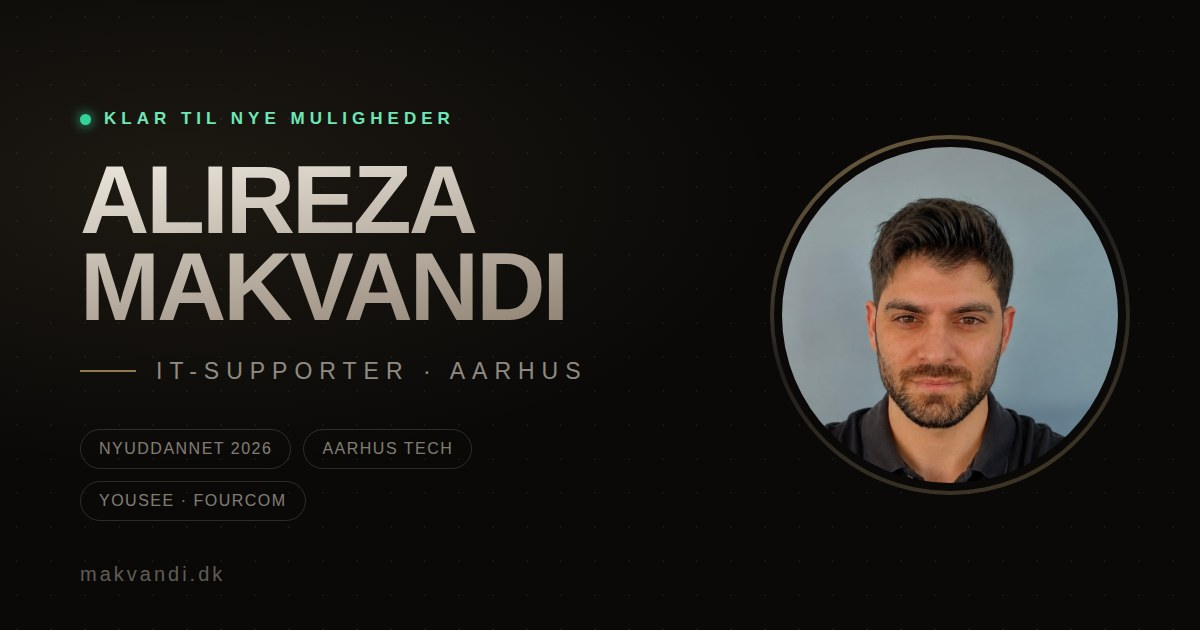
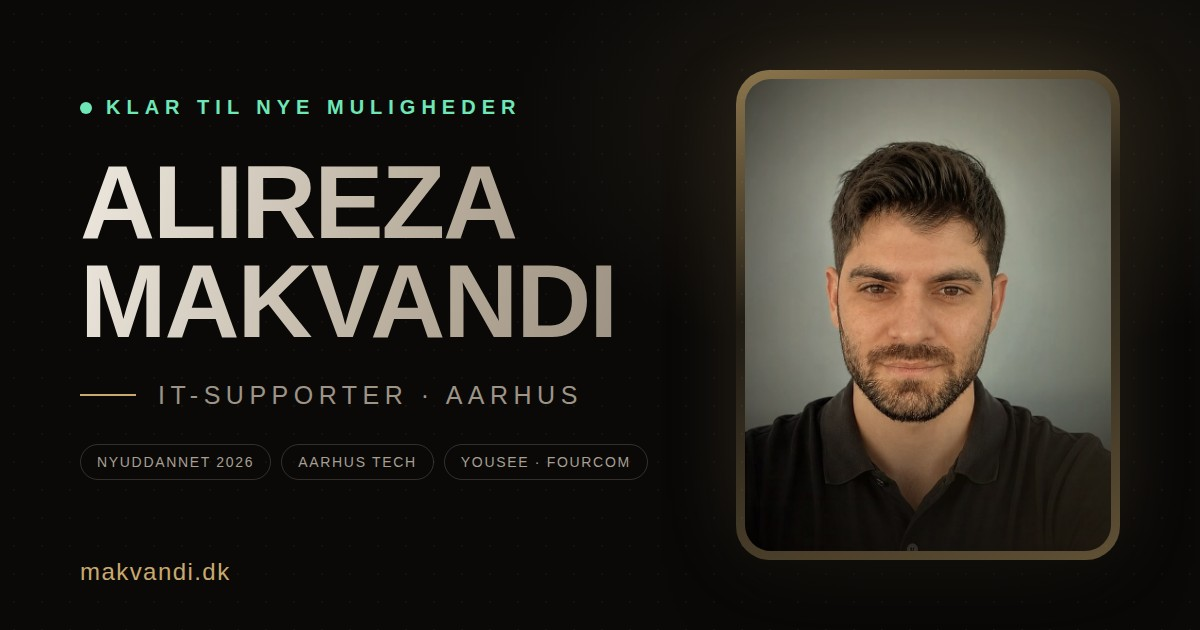
Contact: CV download button; refresh Open Graph image with new portrait (cache-busted) (#7)
Claude-Session: https://claude.ai/code/session_01KyWMWxnLS7jSepiuCit9Pn

diff --git a/src/components/FooterSection.tsx b/src/components/FooterSection.tsx
@@ -1,7 +1,7 @@
 import { Link } from 'react-router-dom'
 import { useState, useRef, useEffect } from 'react'
 import { motion } from 'framer-motion'
-import { Mail, Linkedin, Instagram, Phone } from 'lucide-react'
+import { Mail, Linkedin, Instagram, Phone, Download } from 'lucide-react'
 import { useLang } from '../contexts/LanguageContext'
 import { t } from '../translations'
 
@@ -259,6 +259,29 @@ export default function FooterSection() {
             )
           ))}
         </motion.h2>
+
+        {/* CV: the one thing a recruiter wants */}
+        <motion.div
+          initial={{ opacity: 0, y: 16 }}
+          whileInView={{ opacity: 1, y: 0 }}
+          viewport={{ once: true }}
+          transition={{ duration: 0.5 }}
+          className="-mt-6 sm:-mt-8 mb-10 sm:mb-12 flex flex-wrap items-center gap-4"
+        >
+          <a
+            href="/cv-alireza-makvandi.pdf"
+            target="_blank"
+            rel="noopener noreferrer"
+            className="btn-outline-gold inline-flex items-center gap-2 rounded-full"
+            style={{ padding: '13px 26px', fontSize: '11px', letterSpacing: '0.18em', textTransform: 'uppercase', fontWeight: 500 }}
+          >
+            <Download size={14} strokeWidth={1.8} style={{ color: '#C9A96E' }} />
+            {lang === 'da' ? 'Download CV (PDF)' : 'Download CV (PDF)'}
+          </a>
+          <span style={{ color: '#E8DDD0', opacity: 0.6, fontSize: '13px', fontWeight: 300 }}>
+            {lang === 'da' ? 'Én side. Opdateret oktober 2026.' : 'One page. Updated October 2026.'}
+          </span>
+        </motion.div>
 
         {/* Contact cards */}
         <div className="grid grid-cols-1 sm:grid-cols-2 lg:grid-cols-4 gap-3 mb-0">

diff --git a/index.html b/index.html
@@ -24,7 +24,7 @@
     <meta property="og:description" content="Uddannet IT-supporter fra Aarhus Tech med erfaring fra YouSee og Fourcom. Baseret i Aarhus, klar til nyt job." />
     <meta property="og:type" content="profile" />
     <meta property="og:url" content="https://www.makvandi.dk/" />
-    <meta property="og:image" content="https://www.makvandi.dk/og.jpg" />
+    <meta property="og:image" content="https://www.makvandi.dk/og.jpg?v=2" />
     <meta property="og:image:width" content="1200" />
     <meta property="og:image:height" content="630" />
     <meta property="og:image:alt" content="Alireza Makvandi – IT-supporter, Aarhus" />
@@ -35,7 +35,7 @@
     <meta name="twitter:card" content="summary_large_image" />
     <meta name="twitter:title" content="Alireza Makvandi – IT-supporter i Aarhus" />
     <meta name="twitter:description" content="Uddannet IT-supporter fra Aarhus Tech med erfaring fra YouSee og Fourcom. Baseret i Aarhus, klar til nyt job." />
-    <meta name="twitter:image" content="https://www.makvandi.dk/og.jpg" />
+    <meta name="twitter:image" content="https://www.makvandi.dk/og.jpg?v=2" />
 
     <!-- Structured data: Person (schema.org) -->
     <script type="application/ld+json">
@@ -45,7 +45,7 @@
       "name": "Alireza Makvandi",
       "jobTitle": "IT-supporter",
       "url": "https://www.makvandi.dk",
-      "image": "https://www.makvandi.dk/og.jpg",
+      "image": "https://www.makvandi.dk/og.jpg?v=2",
       "address": {
         "@type": "PostalAddress",
         "addressLocality": "Aarhus",
